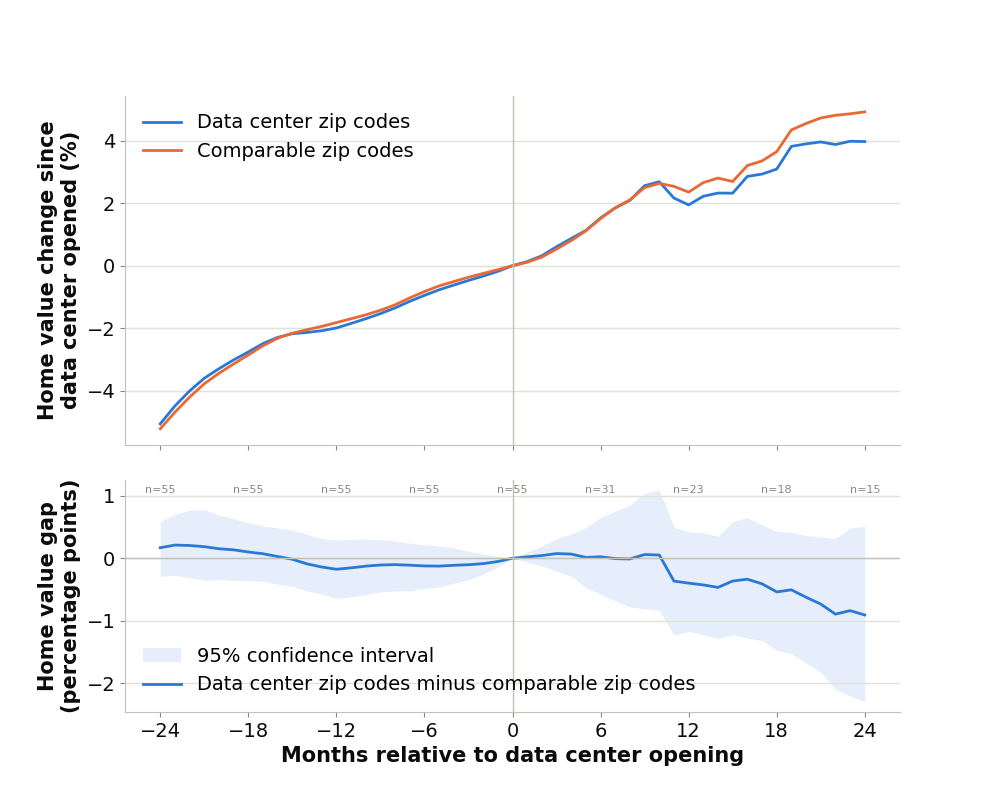
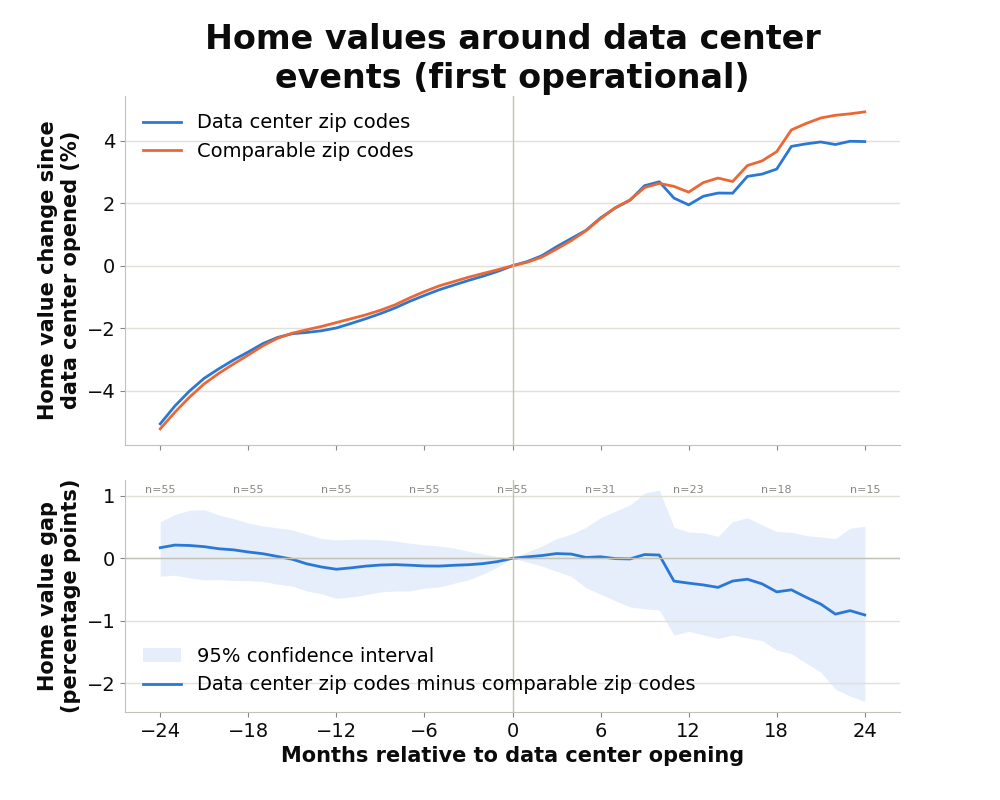
feat: add title to README visualization

Changed region(s): [[0.186, 0.0312, 0.837, 0.125]]

diff --git a/data_visualization.py b/data_visualization.py
@@ -77,10 +77,6 @@ path_axis.plot(event_time, log_to_pct(event_study["Control"]), color=CONTROL_COL
 event_string = 'data center opened' if EVENT_OF_INTEREST == EventOfInterest.FIRST_OPERATIONAL else 'first data center construction headline'
 path_axis.set_ylabel(textwrap.fill(f"Home value change since {event_string} (%)", width=25), color=INK, fontweight='bold', fontsize=15)
 path_axis.legend(frameon=False, loc="upper left")
-# path_axis.set_title(
-#     f"Home values around data center events ({EVENT_OF_INTEREST.name.replace('_', ' ').lower()})",
-#     loc="left", color=INK, fontsize=12,
-# )
 
 # Bottom: the treated-minus-control gap with its 95% confidence interval. The pre-period should
 # hug zero; that is the parallel-trends check.
@@ -111,8 +107,12 @@ for axis in (path_axis, gap_axis):
     for side in ("left", "bottom"):
         axis.spines[side].set_color(BASELINE)
 gap_axis.set_xticks(range(-EVENT_WINDOW_MONTHS, EVENT_WINDOW_MONTHS + 1, 6))
-img_dir = Path('img')
+img_dir = Path('study_visualizations')
 plt.savefig(img_dir / 'infographic_charts.png', transparent=True)
+path_axis.set_title(
+    textwrap.fill(f"Home values around data center events ({EVENT_OF_INTEREST.name.replace('_', ' ').lower()})", width=35),
+    loc="center", color=INK, fontsize=24, fontweight='bold',
+)
 plt.savefig(img_dir / 'infographic_charts_with_background.png') 
 
 HORIZONS_MONTHS = [3, 6, 12]
